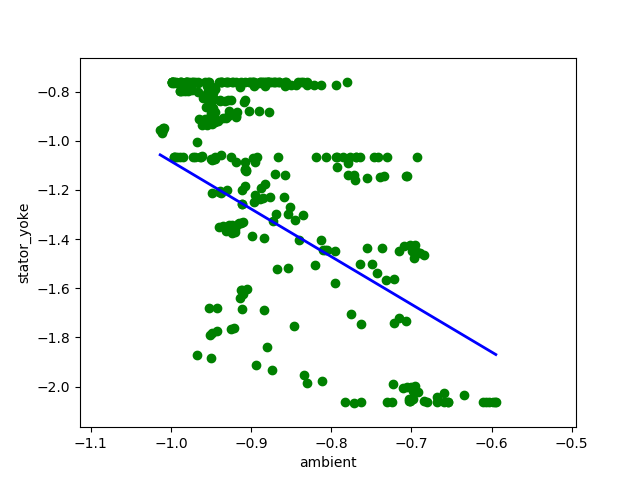
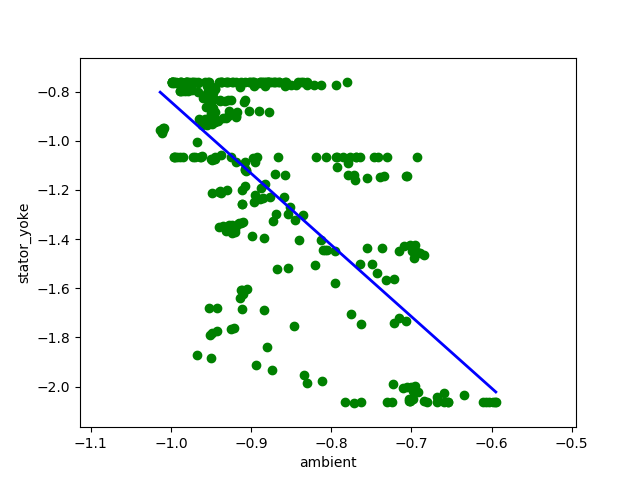
Daily debugging

diff --git a/src/LinearReg.py b/src/LinearReg.py
@@ -13,29 +13,35 @@ def main(path, input_col, label_col, data_start, data_end):
         train_path: Path to CSV file containing dataset for training.
     """
     x, y = util.load_dataset(path, input_col, label_col)
-    x_train, x_test, y_train, y_test = train_test_split(x[data_start: data_end], y[data_start: data_end], test_size=0.33, random_state=0)
+    x_train, x_test, y_train, y_test = train_test_split(
+        x[data_start: data_end], y[data_start: data_end], test_size=0.33, random_state=0)
     n_label = len(label_col)
     n_input = len(input_col)
     theta = np.zeros((n_label, n_input + 1))
     for i in range(n_label):
-        reg = LinearRegression().fit(x_train, y_train[:, 0])
+        reg = LinearRegression().fit(x_train, y_train[:, i])
         theta[i, 0] = reg.intercept_
         print(reg.coef_)
         theta[i, 1:] = reg.coef_
 
-        print('Multiple Linear Regression Score : ', reg.score(x_test, y_test[:, i]))
+        print('Multiple Linear Regression Score : ',
+              reg.score(x_test, y_test[:, i]))
 
     if n_input == 1:
         for i in range(n_label):
-            save_path = "plots/" + input_col[0] + '_vs_' + label_col[i] + '.png'
-            util.plot(x_test, y_test[:, i], theta[i, :], input_col[0], label_col[0], save_path)
+            save_path = "plots/" + \
+                input_col[0] + '_vs_' + label_col[i] + '.png'
+            util.plot(x_test, y_test[:, i], theta[i, :],
+                      input_col[0], label_col[0], save_path)
     print("theta is: ")
     print(theta)
 
 
 if __name__ == '__main__':
+    input_col = [ "coolant", "ambient", "i_d", "u_d","motor_speed"]
+    label_col = ["pm","stator_yoke", "stator_tooth", "stator_winding"]
     main(path='pmsm_temperature_data.csv',
-         input_col=["pm", "coolant", "ambient", "i_d", "u_d"],
-         label_col=["stator_yoke", "stator_tooth", "stator_winding"],
+         input_col=input_col,
+         label_col=label_col,
          data_start=0,
          data_end=1000)
